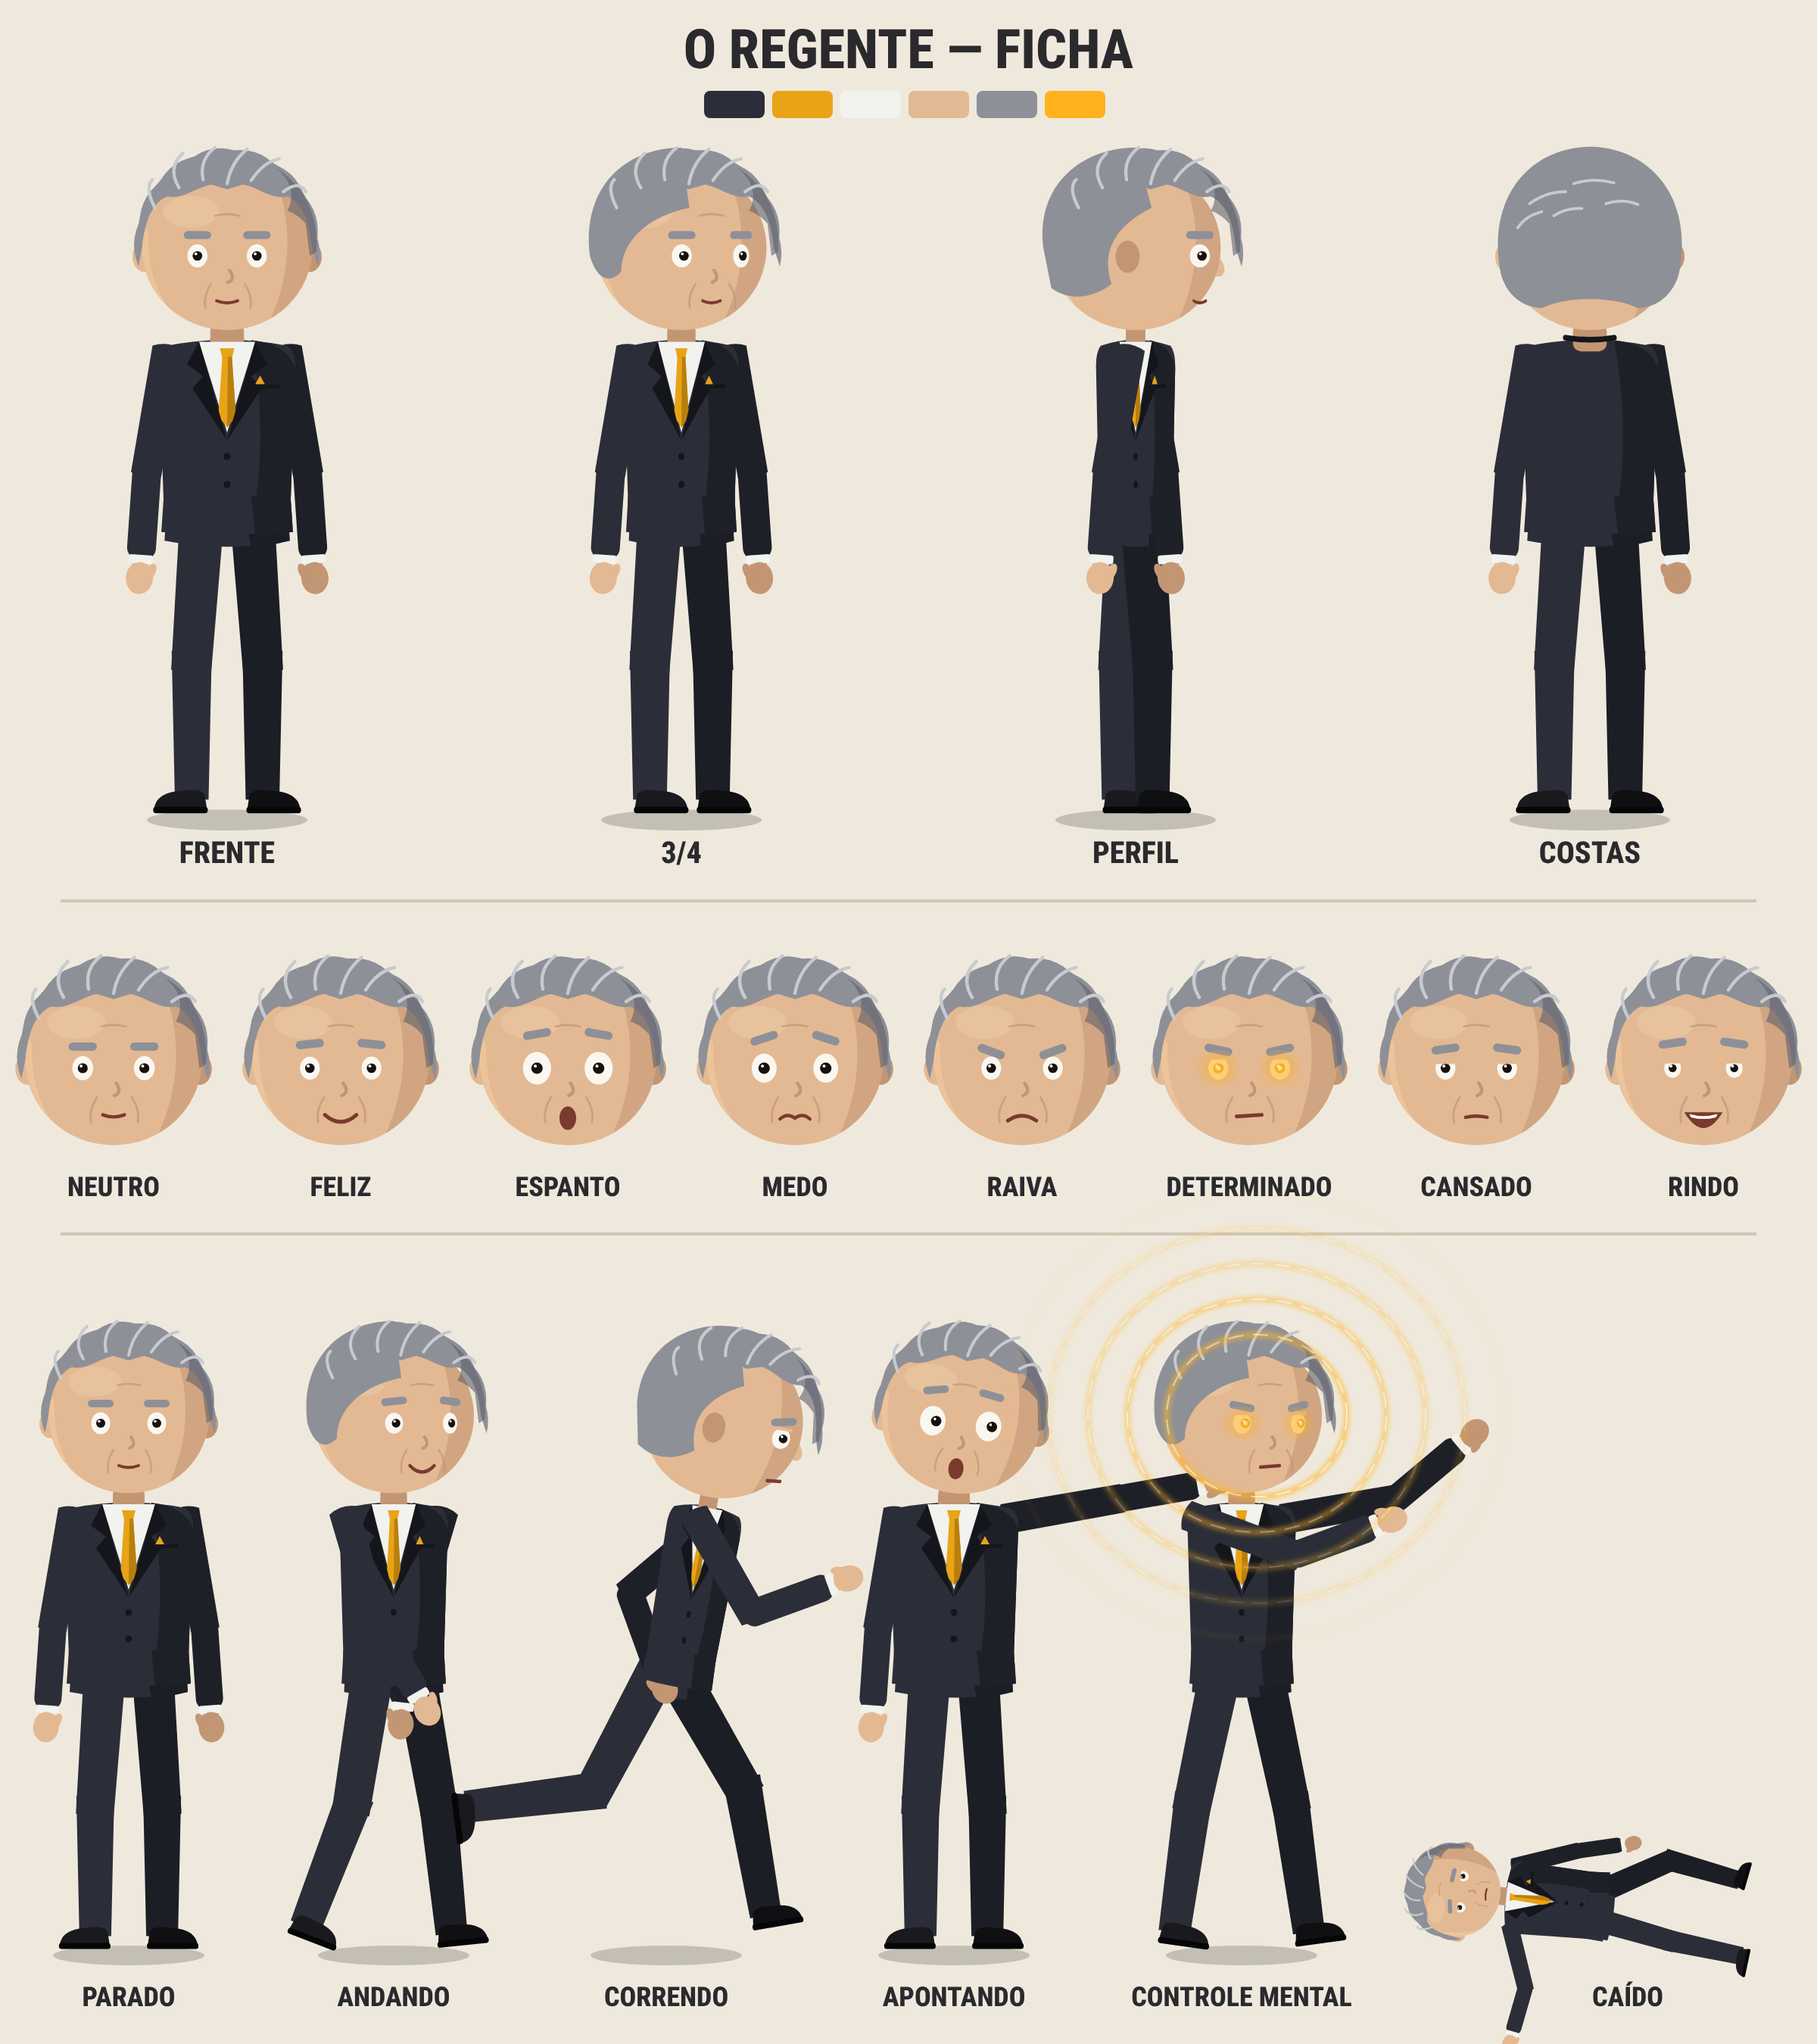
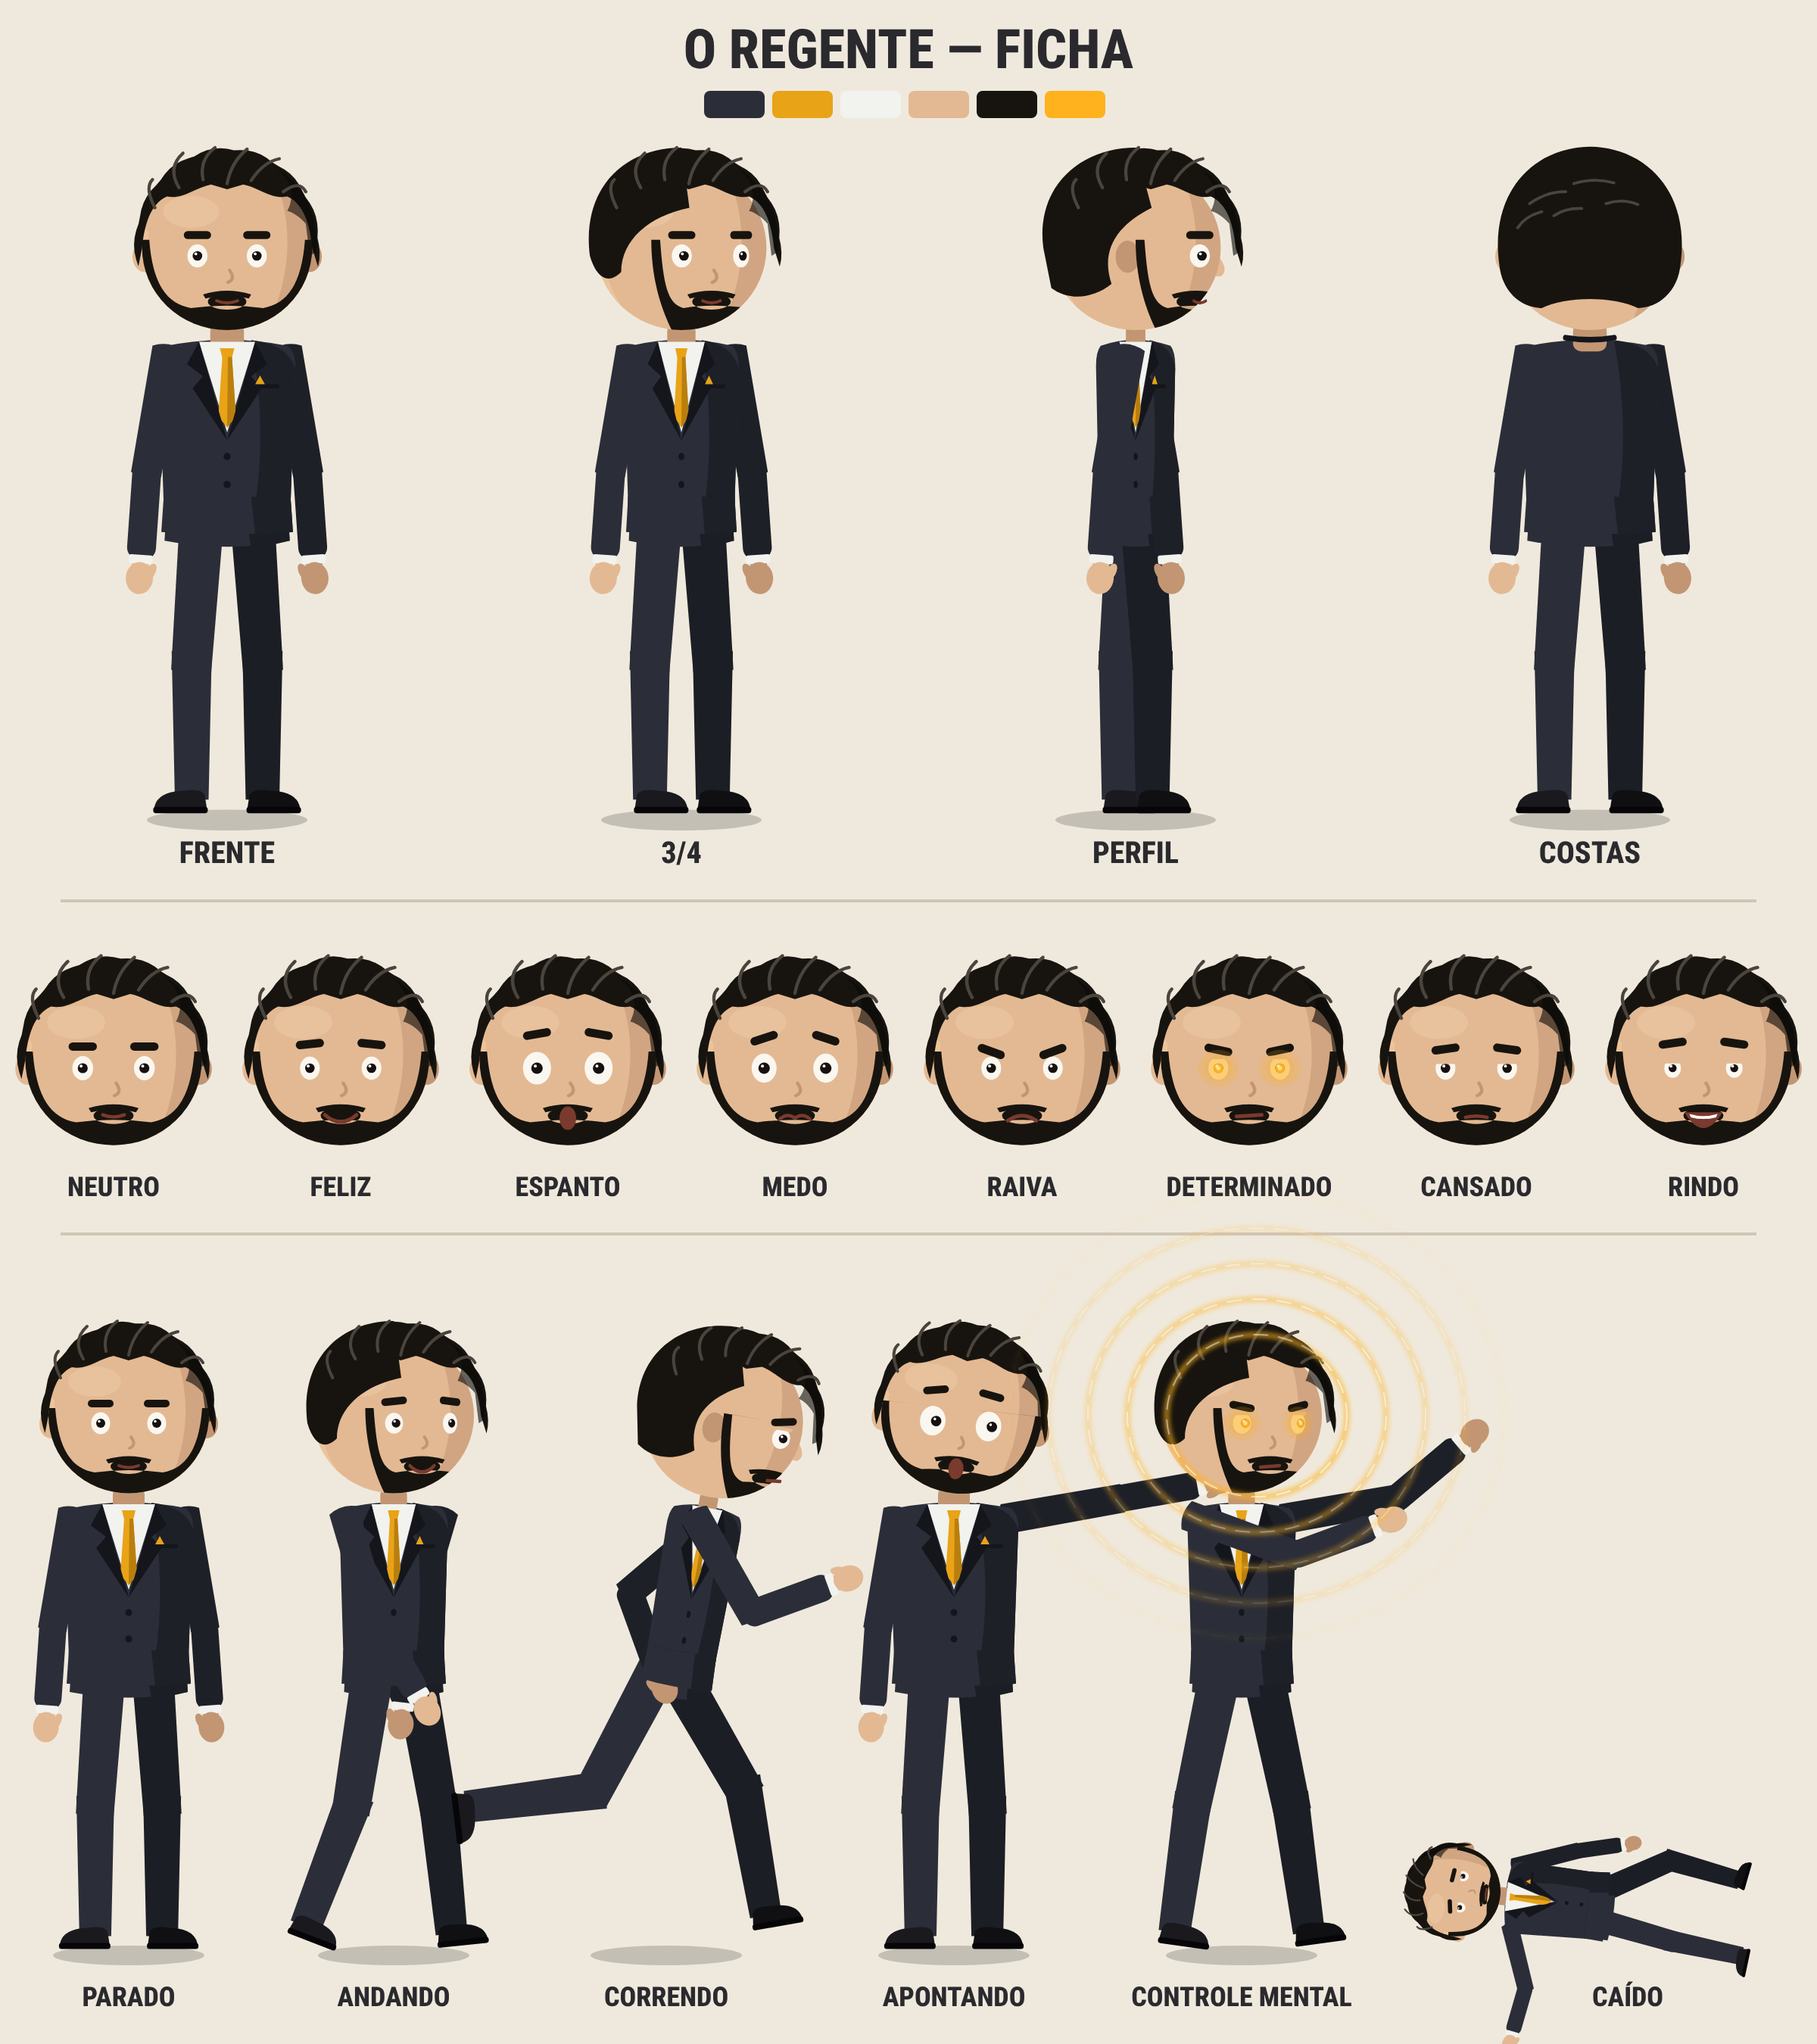
Regente: 35 anos, barba aparada e cabelo preto lambido para trás
Claude-Session: https://claude.ai/code/session_01VxVnSB2Gp8guziDvUfHTY2

diff --git a/estudio/src/personagens/Chede.tsx b/estudio/src/personagens/Chede.tsx
@@ -66,6 +66,7 @@ export type Aparencia = {
   gravataSombra?: string;
   corPoder?: string; // cor do brilho dos olhos / anel de controle
   rugas?: boolean;
+  barba?: boolean;
 };
 export const APARENCIA_CHEDE: Aparencia = { cores: CORES_CHEDE, cabelo: "ondulado", estampa: "bolso" };
 export const AparenciaCtx = React.createContext<Aparencia>(APARENCIA_CHEDE);
@@ -267,6 +268,27 @@ export const Cabeca: React.FC<{ expressao: Expressao; pose: Pose; vista?: Vista 
                 ))}
               </>
             )}
+          </g>
+        </g>
+      )}
+      {/* barba (contorno do queixo + bigode, boca livre) */}
+      {A.barba && !costas && (
+        <g clipPath={`url(#clipCabeca-${vista})`}>
+          <g transform={`translate(${fx},0)`}>
+            <path
+              fillRule="evenodd"
+              fill={C.cabelo}
+              d={
+                vista === "frente"
+                  ? `M -214 -20 L 214 -20 L 214 300 L -214 300 Z
+                     M -194 -20 C -186 90 -150 140 -90 150 Q 0 138 90 150 C 150 140 186 90 194 -20 Z
+                     M -48 134 A 48 20 0 1 0 48 134 A 48 20 0 1 0 -48 134 Z`
+                  : `M -150 -20 L 214 -20 L 214 300 L -40 300 C -100 220 -150 120 -150 -20 Z
+                     M -128 -20 C -120 90 -110 140 -70 150 Q 0 138 90 150 C 150 140 186 90 194 -20 Z
+                     M -48 134 A 48 20 0 1 0 48 134 A 48 20 0 1 0 -48 134 Z`
+              }
+            />
+            <path d="M -60 116 Q 0 98 60 116 L 54 126 Q 0 112 -54 126 Z" fill={C.cabelo} />
           </g>
         </g>
       )}

diff --git a/estudio/src/personagens/Regente.tsx b/estudio/src/personagens/Regente.tsx
@@ -2,7 +2,7 @@ import React from "react";
 import { Aparencia, AparenciaCtx, Cabeca, Chede, CORES_CHEDE, Expressao, Pose, Vista } from "./Chede";
 
 // O Regente (Otávio Regis) — o vilão. Controle mental; manda no governo por dentro.
-// Mesmo rig do Chede, aparência própria: terno grafite, gravata âmbar, cabelo grisalho penteado para trás.
+// Mesmo rig do Chede, aparência própria: terno grafite, gravata âmbar, cabelo preto penteado para trás (lambido), barba.
 export const COR_PODER_REGENTE = "#FFB21E"; // âmbar: brilho dos olhos, ondas mentais, anel dos controlados
 
 export const CORES_REGENTE = {
@@ -10,9 +10,9 @@ export const CORES_REGENTE = {
   pele: "#E3B993",
   peleSombra: "#C29673",
   peleLuz: "#F1D2B3",
-  cabelo: "#8E9098",
-  cabeloSombra: "#5F616A",
-  cabeloBrilho: "#C8CAD0",
+  cabelo: "#17140F",
+  cabeloSombra: "#0A0907",
+  cabeloBrilho: "#4A443D",
   camisa: "#2B2E38", // paletó
   camisaSombra: "#1E2028",
   camisaDetalhe: "#14161C", // lapela / botões
@@ -32,7 +32,7 @@ export const APARENCIA_REGENTE: Aparencia = {
   gravata: "#E8A317",
   gravataSombra: "#B97F0E",
   corPoder: COR_PODER_REGENTE,
-  rugas: true,
+  barba: true,
 };
 
 export const Regente: React.FC<{ expressao?: Expressao; pose?: Pose; vista?: Vista; semSombra?: boolean }> = (props) => (

diff --git a/estudio/src/personagens/FichaChede.tsx b/estudio/src/personagens/FichaChede.tsx
@@ -60,7 +60,7 @@ const POSES: { nome: string; vista: Vista; expr: Expressao; pose: Pose; caido?: 
 const QUEM = {
   chede: { nome: "Chede", ap: APARENCIA_CHEDE, cores: ["#F07C28", "#232327", "#9A6340", "#1C1817", "#EFEDE8", "#7B4DFF"] },
   kaik: { nome: "Kaik", ap: APARENCIA_KAIK, cores: ["#2F6FD6", "#C93A32", "#F1CBAE", "#1A1615", "#EFEDE8", "#59D8FF"] },
-  regente: { nome: "O Regente", ap: APARENCIA_REGENTE, cores: ["#2B2E38", "#E8A317", "#F2F2EE", "#E3B993", "#8E9098", COR_PODER_REGENTE] },
+  regente: { nome: "O Regente", ap: APARENCIA_REGENTE, cores: ["#2B2E38", "#E8A317", "#F2F2EE", "#E3B993", "#17140F", COR_PODER_REGENTE] },
 };
 type Quem = keyof typeof QUEM;
 

diff --git a/roteiros/universo.md b/roteiros/universo.md
@@ -7,7 +7,7 @@ Tudo o que já aconteceu e o que ficou em aberto. Ler antes de escrever qualquer
 |---|---|---|---|
 | **Chede** | 23 anos, pele morena, cabelo preto ondulado, camiseta laranja, bermuda preta. Corajoso, às vezes inseguro, muito esperto. | **Fenda dimensional** na palma da mão: some com as coisas, guarda tudo num "outro lugar" e devolve. A mão pode ficar transparente e atravessar objetos. | `personagens/chede/` (oficial) |
 | **Kaik** | Melhor amigo do Chede. Pele clara, cabelo preto cacheado, camiseta azul com faixa branca, bermuda vermelha. | **Super velocidade**. Rastro ciano/branco (nunca raio amarelo). | `personagens/kaik/` (oficial) |
-| **O Regente** (vilão) | Otávio Regis, ~55 anos, terno grafite, gravata âmbar, cabelo grisalho penteado para trás. Manda no governo por dentro. | **Controle mental**: olhos e ondas âmbar; controlados ficam com anel âmbar na íris. | `personagens/regente/` |
+| **O Regente** (vilão) | Otávio Regis, 35 anos, barba preta aparada, cabelo preto lambido para trás, terno grafite, gravata âmbar. Manda no governo por dentro. | **Controle mental**: olhos e ondas âmbar; controlados ficam com anel âmbar na íris. | `personagens/regente/` |
 
 ## Série 1 · "E se você acordasse podendo sumir com qualquer coisa?" (Chede)
 **Parte 1: publicada** (`prontos/serie-sumir-parte-1.mp4`)

diff --git a/personagens/regente/ficha.md b/personagens/regente/ficha.md
@@ -4,10 +4,11 @@
 
 | Item | Definição |
 |---|---|
-| Quem é | Otávio Regis, ~55 anos. Em público é um assessor discreto do governo que ninguém nota; na verdade é ele quem manda. Apelido entre os agentes: **o Regente** (quem governa no lugar do rei). |
+| Quem é | Otávio Regis, **35 anos**. Em público é um assessor discreto do governo que ninguém nota; na verdade é ele quem manda. Apelido entre os agentes: **o Regente** (quem governa no lugar do rei). |
 | Personalidade | Calmo, educado, nunca levanta a voz. Sorri pouco. Acha que pessoas com poder são "recursos" que ele precisa catalogar ou controlar. |
-| Pele | Clara `#E3B993` (sombra `#C29673`), rugas leves |
-| Cabelo | Grisalho `#8E9098`, penteado para trás, entradas altas |
+| Pele | Clara `#E3B993` (sombra `#C29673`) |
+| Barba | Preta, curta e bem aparada, contornando o queixo, com bigode fino |
+| Cabelo | Preto `#17140F`, lambido / penteado para trás |
 | Roupa | Terno grafite `#2B2E38`, camisa branca, **gravata âmbar** `#E8A317`, broche triangular âmbar na lapela, sapato social preto |
 | Poder | **Controle mental.** Olhos ficam âmbar brilhante `#FFB21E` e saem ondas âmbar da cabeça (`efeitos/ControleMental.tsx`). |
 

diff --git a/aprendizados.md b/aprendizados.md
@@ -85,3 +85,6 @@ Regras que valem para todos os vídeos. Cada uma com o motivo.
 - **Vilão criado e aprovado para criar: "o Regente" (Otávio Regis), controle mental, cor âmbar.** As 4 regras do
   poder (gatilho olhar/voz, limite, anel âmbar nos controlados, fraquezas) foram aprovadas pelo usuário (07/11).
   Âmbar foi escolhido para não confundir com o ciano do Kaik nem com o roxo da fenda do Chede: cada poder tem sua cor.
+- **Correção do usuário no visual do Regente:** adulto de **35 anos**, **barba** e **cabelo preto lambido para trás**
+  (antes eu tinha feito ~55 anos, grisalho e com rugas). Motivo: é assim que o usuário imagina o vilão. Barba feita
+  curta e aparada; a primeira versão, cheia, pesou o rosto e cobria a nuca nas vistas de lado.
